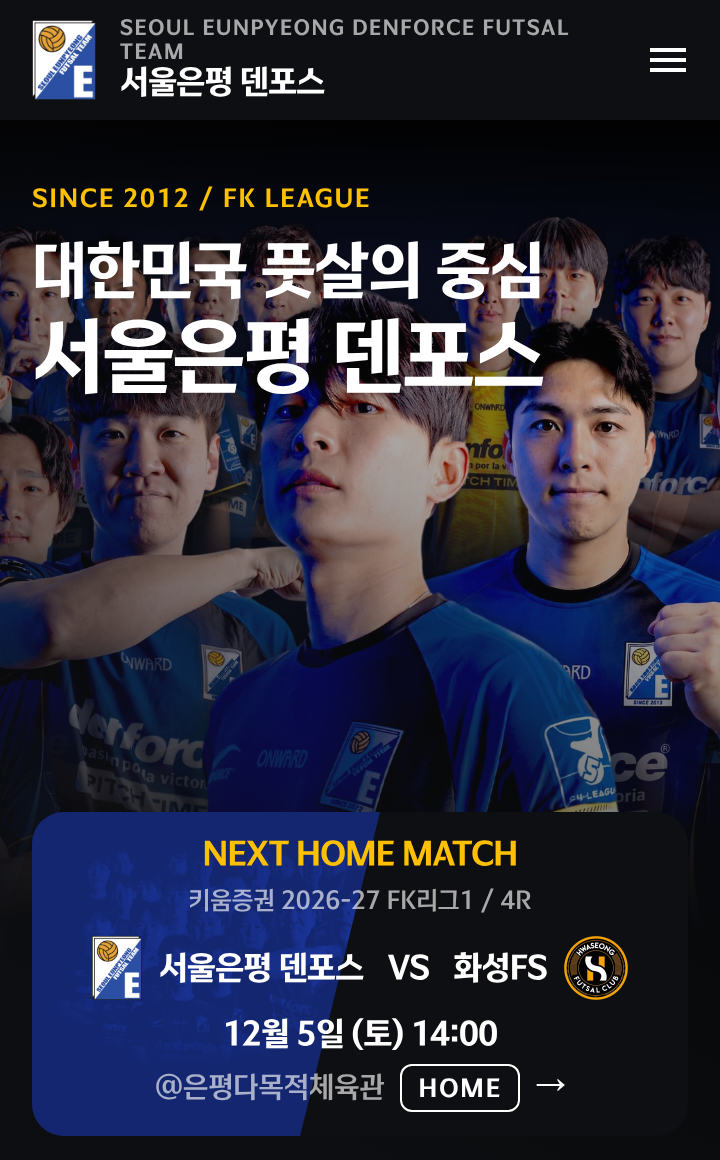
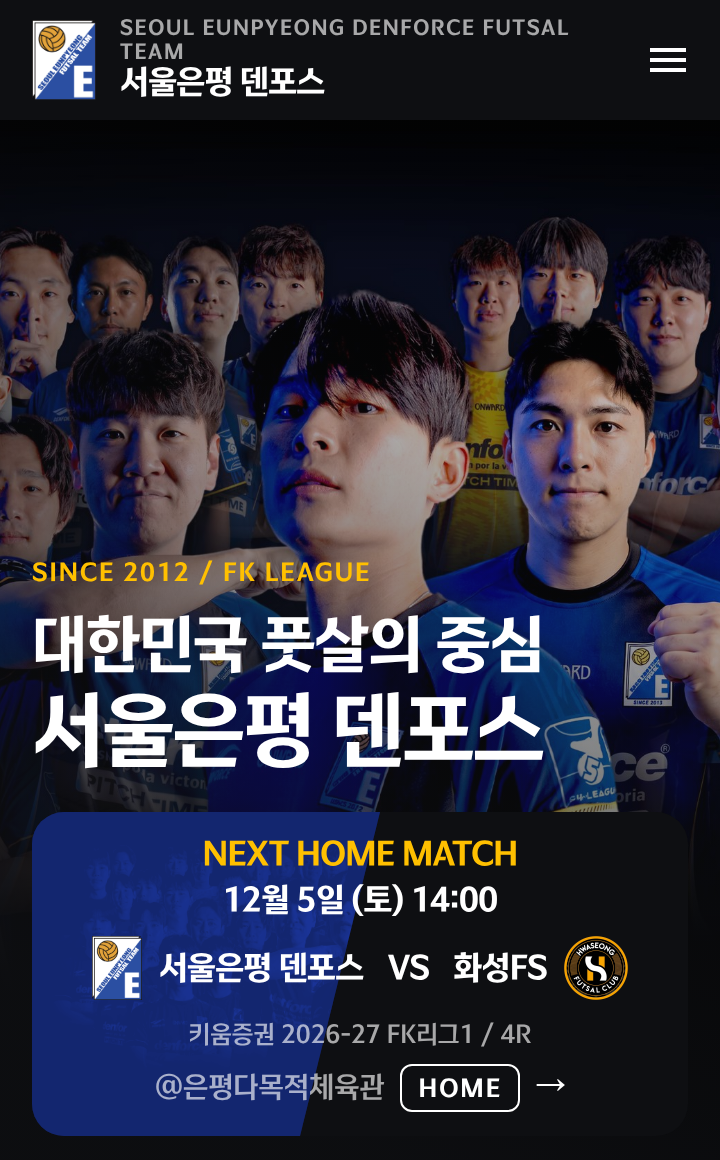
휴대폰 다음 홈경기 띠 줄 규칙(KFA고딕 기준): 줄1 라벨 + 날짜, 줄3 대회 + 장소 — 390 139 / 문구 위 302 (D-088, I-062)
Claude-Session: https://claude.ai/code/session_015na33bHmUEDGFhNLp3LnQp

diff --git a/sites/eunpyeong-denforce/src/components/home/NextMatchHero.tsx b/sites/eunpyeong-denforce/src/components/home/NextMatchHero.tsx
@@ -84,7 +84,7 @@ function WideCard({ match, ourName, textured, style }: Props) {
 
 /**
  * 휴대폰 작은 띠 A 가운데 3줄 (D-088, 피그마 274:26717 / 274:26795 / 274:26873 / 274:26951) — 폭 화면 - 32.
- * [NEXT HOME MATCH + 대회] / [엠블럼 32 + 우리 이름, VS, 상대 이름 + 엠블럼] / [날짜 + @장소 + HOME + →].
+ * [NEXT HOME MATCH + 날짜] / [엠블럼 32 + 우리 이름, VS, 상대 이름 + 엠블럼] / [대회 + (@장소 + HOME + →)] — 줄 규칙은 KFA고딕 실측 기준(I-062, 디자인 f46f3d6).
  * 카드 전체가 /match/schedule 링크 하나. 읽기 프로그램에는 대진, 날짜, 장소를 담은 이름을 준다(→ 는 숨김).
  */
 function PhoneStrip({ match, ourName, textured, style }: Props) {
@@ -103,7 +103,9 @@ function PhoneStrip({ match, ourName, textured, style }: Props) {
       <Link href="/match/schedule" className={`${styles.card} ${styles.strip} ${textured ? styles.textured : ""}`} style={style} aria-label={name}>
         <span className={styles.stripRow}>
           <span className={styles.label}>NEXT HOME MATCH</span>
-          <CompetitionTag text={matchLabel(match)} surface="dark" />
+          <span className={styles.stripDate}>
+            {date} {time}
+          </span>
         </span>
         <span className={styles.stripTeams}>
           <span className={styles.stripTeam}>
@@ -117,9 +119,7 @@ function PhoneStrip({ match, ourName, textured, style }: Props) {
           </span>
         </span>
         <span className={styles.stripRow}>
-          <span className={styles.stripDate}>
-            {date} {time}
-          </span>
+          <CompetitionTag text={matchLabel(match)} surface="dark" />
           <span className={styles.venue}>
             {match.venue && <>@{match.venue}</>}
             <HomeAwayBadge isHome={match.isHome} surface="dark" />

diff --git a/sites/eunpyeong-denforce/src/components/home/NextMatchHero.module.css b/sites/eunpyeong-denforce/src/components/home/NextMatchHero.module.css
@@ -275,7 +275,7 @@
     text-decoration: none;
   }
 
-  /* 줄 1(라벨 + 대회), 줄 3(날짜 + 장소 덩어리) — 좁으면 덩어리째 다음 줄로 */
+  /* 줄 1(라벨 + 날짜), 줄 3(대회 + 장소 덩어리) — 좁으면 덩어리째 다음 줄로, 사이 space/2xs (I-062, 디자인 f46f3d6) */
   .stripRow {
     position: relative;
     display: flex;

diff --git a/sites/eunpyeong-denforce/docs/DECISION_LOG.md b/sites/eunpyeong-denforce/docs/DECISION_LOG.md
@@ -31,9 +31,9 @@
 
 ## D-088 | 2026-11-14 | 휴대폰 다음 홈경기 = 작은 띠 A 가운데 3줄, 카드 전체가 경기일정 링크, 버튼 없음
 - **상태**: 채택, 기능 브랜치(배포는 총괄) (소유자 "카드가 차지하는 면적이 너무 커서", 띠 A 선택 — 총괄 창에서 승인. 디자인 f945746, 섹션 274:26714, 프레임 360 274:26717 / 390 274:26795 / 430 274:26873 / 390 긴 이름 274:26951)
-- **결정**: 720 이하만. 721 이상(태블릿 456, PC)은 지금 카드와 버튼 그대로. 휴대폰은 PhoneStrip — 폭 화면 - 32, 안쪽 위아래 space/s 좌우 space/m, 줄 사이 space/xs. [NEXT HOME MATCH 16 Bold yellow + 대회 태그] / [엠블럼 32 + 우리 이름 16 Bold, VS, 상대 이름 + 엠블럼 32] / [날짜 16 Bold + (@장소 + HOME + →) 한 덩어리]. 줄 1, 줄 3은 좁으면 덩어리째 다음 줄(사이 space/2xs). 파랑 반쪽 +10 / -30 + (다) 질감 그대로. 카드 전체가 /match/schedule 링크 하나, 링크 이름은 '다음 홈경기 우리 대 상대, 날짜 시각, 장소 홈, 경기일정 보기', → 는 낭독 숨김. '오시는 길' / '경기일정' 버튼은 휴대폰에서 뺌(소유자 승인). D-087 의 휴대폰 margin-inline auto 는 띠로 대체.
-- **문구 내림**(소유자 제안 + ㄱㄱ, 디자인 be56ee2 277:26956 / 277:27007 / 277:27058 / 277:27109): 720 이하에서 눈썹 + 두 줄 제목을 띠 카드 바로 위로(사이 space/m 16, .inner justify-content flex-end). 문구 크기/줄 수/왼쪽 16/HeroTitle 폭 맞춤, 덮개는 그대로. 실측 문구 위 끝 360 279 / 390 279 / 430 325 / 390 긴 이름 273 (목표 280 / 303 / 326 / 297 — 390 두 개는 띠가 24 높아 같이 24 위, I-062).
-- **실측**(KFA고딕): 360 162 / 390 162 / 412 139 / 430 116 / 390 긴 이름 168, 히어로 아래 12, 넘침 0(320~720), 721 이상 456x368 그대로. 피그마 목표(360 161 / 390 138 / 430 115 / 긴 이름 144) 중 390 과 긴 이름은 +24 — 피그마 글자(Noto Sans KR 임시)보다 KFA고딕이 약 7% 넓어 390 에서 줄 1(라벨 157.6 + 대회 171.5 > 326)도 줄바꿈되기 때문(I-062).
+- **결정**: 720 이하만. 721 이상(태블릿 456, PC)은 지금 카드와 버튼 그대로. 휴대폰은 PhoneStrip — 폭 화면 - 32, 안쪽 위아래 space/s 좌우 space/m, 줄 사이 space/xs. [NEXT HOME MATCH 16 Bold yellow + 날짜 16 Bold] / [엠블럼 32 + 우리 이름 16 Bold, VS, 상대 이름 + 엠블럼 32] / [대회 태그 + (@장소 + HOME + →) 한 덩어리] (줄 규칙은 KFA고딕 실측 기준, 디자인 f46f3d6 — 처음 시안 순서는 390 에서 24 높아 바꿈, I-062). 줄 1, 줄 3은 좁으면 덩어리째 다음 줄(사이 space/2xs). 파랑 반쪽 +10 / -30 + (다) 질감 그대로. 카드 전체가 /match/schedule 링크 하나, 링크 이름은 '다음 홈경기 우리 대 상대, 날짜 시각, 장소 홈, 경기일정 보기', → 는 낭독 숨김. '오시는 길' / '경기일정' 버튼은 휴대폰에서 뺌(소유자 승인). D-087 의 휴대폰 margin-inline auto 는 띠로 대체.
+- **문구 내림**(소유자 제안 + ㄱㄱ, 디자인 be56ee2 / f46f3d6, 277:26956 / 277:27007 / 277:27058 / 277:27109): 720 이하에서 눈썹 + 두 줄 제목을 띠 카드 바로 위로(사이 space/m 16, .inner justify-content flex-end). 문구 크기/줄 수/왼쪽 16/HeroTitle 폭 맞춤, 덮개는 그대로.
+- **실측**(KFA고딕, 머리 60 포함): 카드 높이 / 문구 위 끝 — 360 162 / 279, 390 139 / 302, 412 139 / 302, 430 139 / 302, 390 긴 이름 145 / 296, 320 168 / 273, 480~720 116 / 325. 목표(360 약 162, 390 / 430 약 138, 긴 이름 약 145, 문구 303 / 297) 안. 카드 히어로 아래 12, 넘침 0(320~720), 721 이상 456x368 그대로. Tab 4번째, 초점 2px, Enter → /match/schedule.
 
 ## D-087 | 2026-11-14 | 넓은 휴대폰(391~720)에서 다음 홈경기 카드는 358 그대로 가운데
 - **상태**: 채택 (소유자 "가운데부터 일단 배포하고, 휴대폰 전용 카드 디자인 해보자") — 휴대폰 전용 카드 시안이 정해지면 그 결정으로 대체될 수 있음

diff --git a/sites/eunpyeong-denforce/docs/FIGMA_SYNC.md b/sites/eunpyeong-denforce/docs/FIGMA_SYNC.md
@@ -581,3 +581,4 @@
 - 2026-11-14 디자인: 휴대폰 카드 3안 섹션 271:26414 와 그 안 프레임에 '[보관: 선택 안 됨]'(소유자: 정렬이 아니라 카드 면적이 커서 단체 사진을 가림). 방향 A '작은 띠 카드' 시안 3안, 새 섹션 274:26714. 히어로 사진은 운영 단체 사진 hero-2627-squad-v3(Supabase 공개 media, 피그마 이미지 43dd7fa6…)로 바꿈(채움, 가운데). 버튼 없음, 카드 전체가 /match/schedule 링크, 화살표 → 는 눌림 표시(aria-hidden), 사이트의 '전체보기 →' 와 같은 글자 화살표. 공통: 라벨 kfa/m/h4 yellow, 이름/VS/날짜 kfa/m/h4, 대회 태그와 @장소 + HOME 은 기존 부품, 안쪽 여백 위아래 space/s 좌우 space/m, 줄 사이 space/xs, 줄바꿈 줄 사이 space/2xs, 긴 상대 이름은 낱말 경계(고양불스 / 풋살클럽)에서만 줄바꿈. 프레임 순서 360 / 390 / 430 / 390 긴 이름. 띠 A 가운데 3줄 274:26717 / 274:26795 / 274:26873 / 274:26951: 폭 화면 - 32, 가운데, [라벨 + 대회] / [엠블럼 32 + 이름, VS] / [날짜 + (@장소 + HOME + → 한 덩어리)], 파랑 반쪽 +10/-30 + (다) 질감(단체 사진), 아래 space/s. 높이 161 / 138 / 115 / 144, 사진 보이는 높이(히어로 520 중) 347 / 370 / 393 / 364. 띠 B 왼쪽 정렬 + 화살표 칸 274:27031 / 274:27106 / 274:27181 / 274:27256: 폭 화면 - 32, 내용 왼쪽 + 오른쪽 화살표 칸 24(kfa/m/h3 →, 세로 가운데), 평면 color/blue 바탕, 360 은 엠블럼 24. 높이 153 / 161 / 115 / 167(390 은 라벨과 대회, 날짜와 장소가 각각 두 줄로 나뉘어 목표 150 을 넘음). 띠 C 바닥 시트 274:27333 / 274:27411 / 274:27489 / 274:27567: 가로 전체, 히어로 아래 끝에 붙음, 위 두 모서리만 radius/l, 아래 여백 space/m, 가운데 [라벨 →] / [엠블럼 40 + 이름, VS] / [날짜 + 대회 + @장소 + HOME], 파랑 반쪽 + (다) 질감. 높이 모든 폭 150, 사진 보이는 높이 370. 누를 수 있는 높이는 모두 카드 전체(115 이상). 캡처 docs/figma-captures/phone-strip/(compare-390, compare-430, compare-390-long 에 안 이름, 안별 3장). 감사: 맨 색 0, 스타일 없는 글자 0, 가운뎃점 0.
 - 2026-11-14 기능: 휴대폰 다음 홈경기 작은 띠 A(D-088, 디자인 f945746) — PhoneStrip, 720 이하만, 카드 전체 /match/schedule 링크, 버튼 없음. 실측 360 162 / 390 162 / 430 116 / 긴 이름 168(390 은 KFA고딕 폭 때문에 +24, I-062). 721 이상 그대로. 22페이지 x 12폭 ALL CLEAN. 캡처 phone-strip/code-360/390/430.png.
 - 2026-11-14 기능: D-088 휴대폰 히어로 문구 내림(디자인 be56ee2) — 문구가 띠 카드 위 16, 문구 위 끝 360 279 / 390 279 / 430 325 / 긴 이름 273(390 은 I-062 만큼 위). 721 이상 그대로. 캡처 phone-strip/code-lowered-360/390/430.png.
+- 2026-11-14 기능: I-062 줄 규칙(디자인 f46f3d6) — 줄1 라벨 + 날짜, 줄3 대회 + 장소 덩어리. 실측 카드/문구 위 360 162/279, 390 139/302, 412 139/302, 430 139/302, 긴 이름 145/296. 캡처 phone-strip/code-*.png, code-lowered-*.png 다시 찍음.

diff --git a/sites/eunpyeong-denforce/docs/KNOWN_ISSUES.md b/sites/eunpyeong-denforce/docs/KNOWN_ISSUES.md
@@ -28,7 +28,7 @@
 <!-- 최신 항목을 위에 추가. 심각도 '높음'은 발견 즉시 소유자에게 별도 보고 -->
 
 ## I-062 | 2026-11-14 | 휴대폰 다음 홈경기 띠: 390 에서 줄 1이 두 줄이 되어 피그마보다 24 높음
-- **상태**: 열림 (디자인/총괄 판단 필요)
+- **상태**: 해결(2026-11-14, 디자인 f46f3d6 줄 규칙 = 줄1 라벨 + 날짜, 줄3 대회 + 장소 덩어리 → 390 139, 문구 위 302)
 - **심각도**: 낮음
 - **증상/내용**: D-088 띠가 390 에서 162(피그마 138), 390 긴 이름 168(피그마 144). 피그마 프레임 글자는 Noto Sans KR(원격 임시 글꼴), 사이트는 KFA고딕이라 같은 16 Bold 라벨이 147 → 157.6, 대회 태그 162 → 171.5 로 넓다. 합 337 이 안쪽 폭 326 을 넘어 줄 1(라벨 + 대회)이 두 줄이 된다. 412 이상은 피그마와 같은 줄 수. 문구 내림(D-088)도 같이 영향 — 390 문구 위 끝 279(피그마 303), 긴 이름 273(297).
 - **해결 방향**: 디자인 세션이 KFA 글꼴로 프레임을 다시 재거나(같은 결과면 그대로 받아들임), 대회 태그 글을 휴대폰에서 줄이는 등 시안 값을 정해 주면 그대로 반영. 코드에서 임의로 글자 크기/간격을 바꾸지 않았다.
